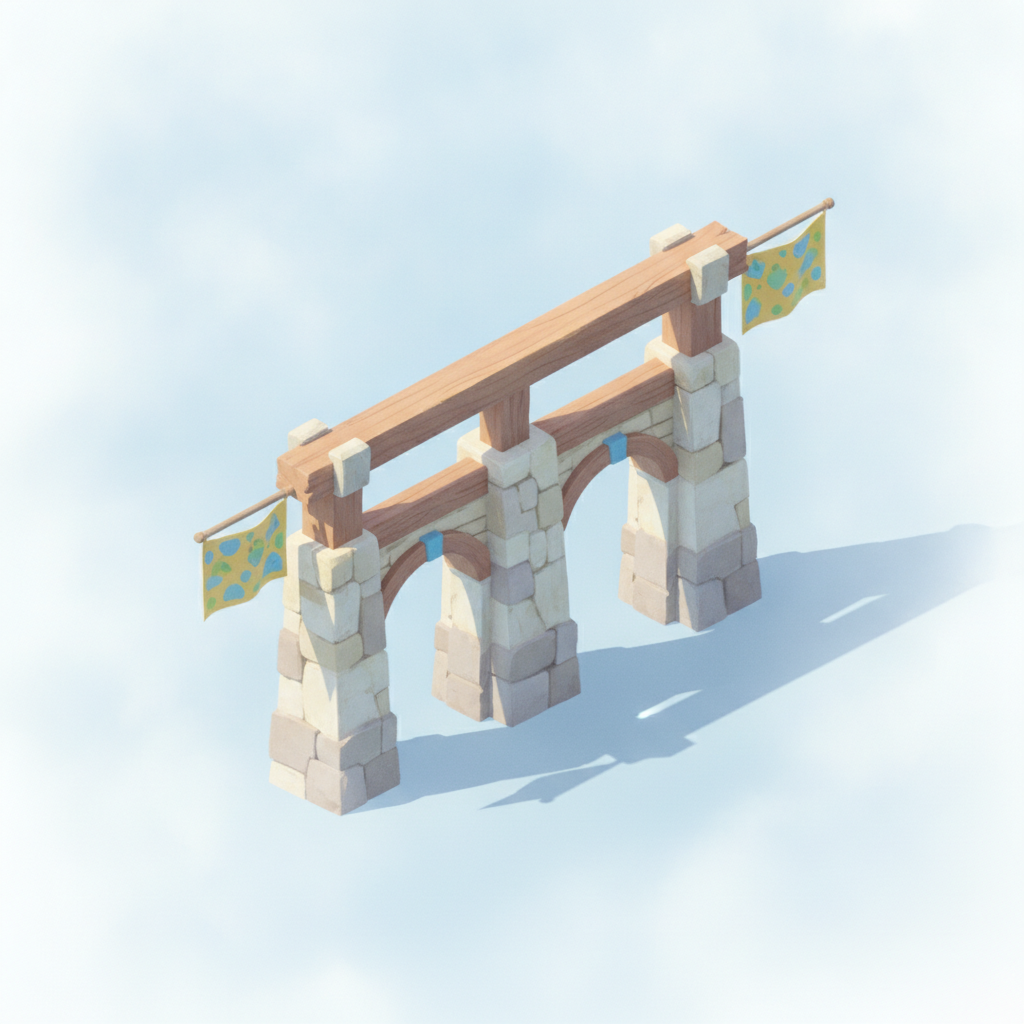
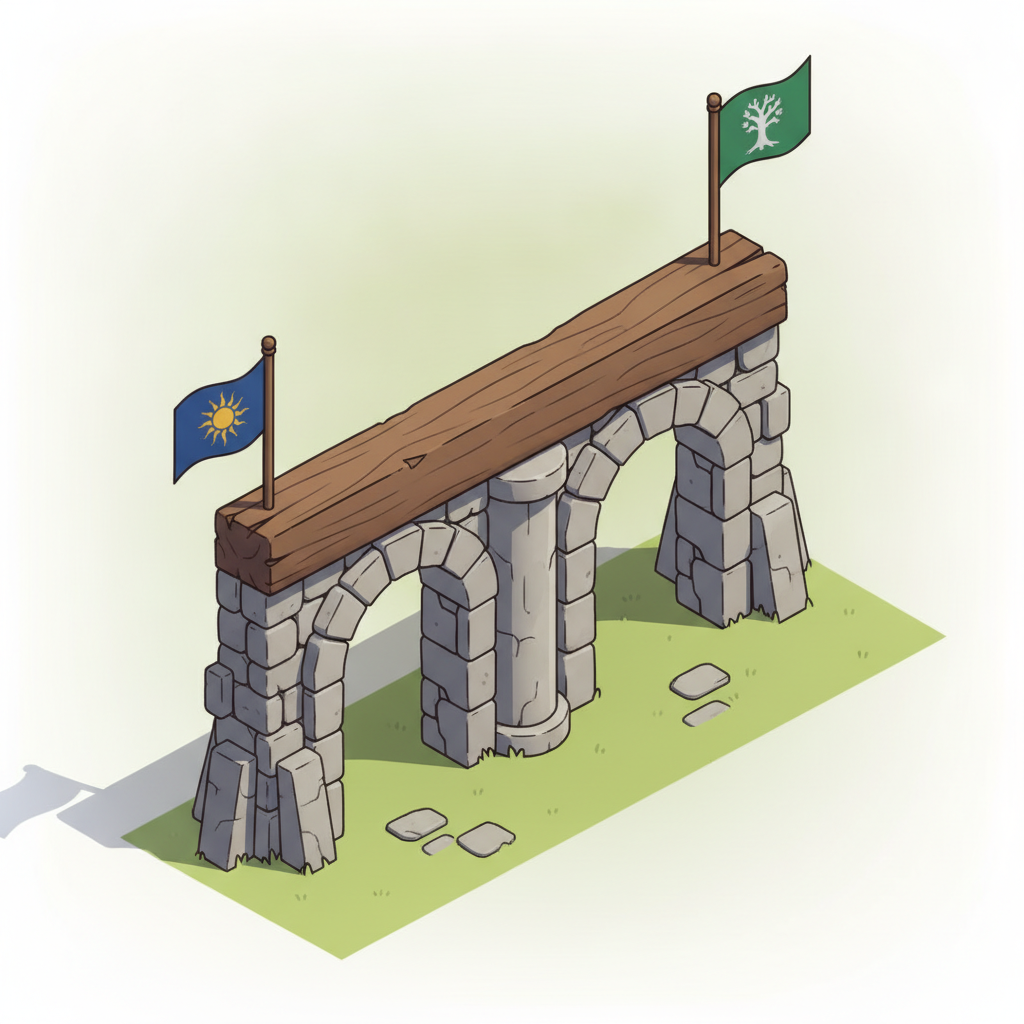
feat: ship corrected gate and inverted-coaster Nano Banana looks
Replace gate and inverted_coaster stills with the dual-arch beam/flags
gate and under-loop hanging-car inverted coaster. Flag and track motion
cycles are unchanged. Bump SW cache so clients pick up the new assets.

diff --git a/public/sw.js b/public/sw.js
@@ -1,5 +1,5 @@
 /* Minimal service worker — enables installability (Add to Home Screen / desktop app) */
-const CACHE = "cit-shell-v4-tier-looks";
+const CACHE = "cit-shell-v5-gate-inverted";
 const PRECACHE = ["/", "/manifest.webmanifest", "/icons/icon-192.png", "/icons/icon-512.png"];
 
 self.addEventListener("install", (event) => {
